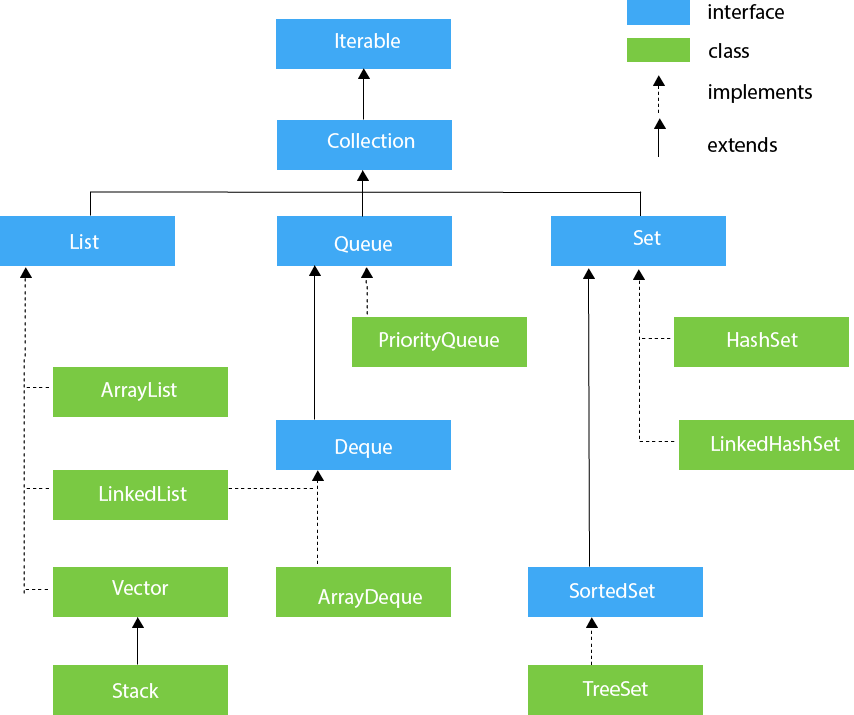
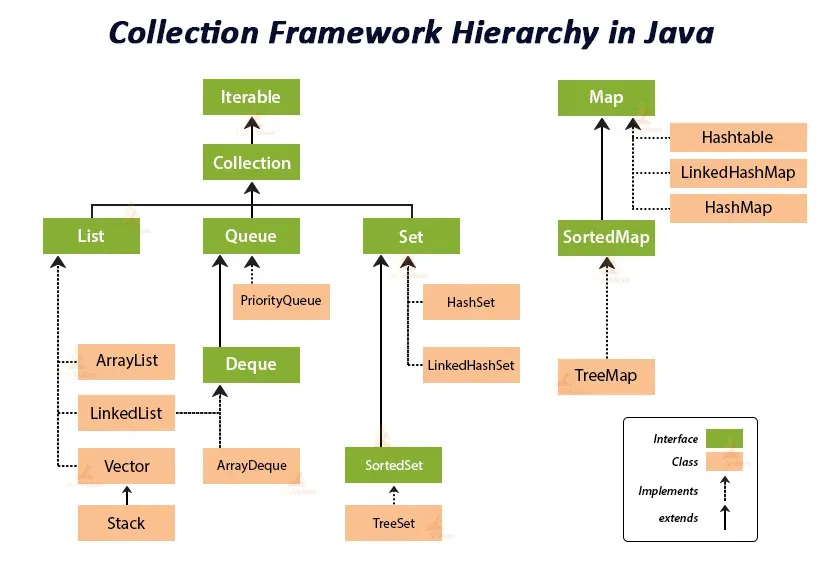
updated java collection hierarchy, java exception handling class hierarchy and types of exception in java flowchart diagrams and also added their sources in readme file

diff --git a/readme.md b/readme.md
@@ -26,6 +26,7 @@ This repository contains the following listed Java Practicals that are done usin
 ### Following are some important concepts of Java:
 - [Java Collection Hierarchy](#java-collection-hierarchy)
 - [Java Exception Handling Class Hierarchy](#java-exception-handling-class-hierarchy)
+- [Types of Exceptions in Java](#types-of-exceptions-in-java)
 
 ## Java Collection Hierarchy
 
@@ -43,7 +44,9 @@ The Java Collections Framework provides a well-designed set of interfaces and cl
 
 Here is a diagram showcasing the hierarchy of the Java Collection classes:
 
-![Java Collection Hierarchy](ProjectImages/java-collection-hierarchy.png)
+|                                                                      ![Java Collection Hierarchy](ProjectImages/java-collection-hierarcHy.png)                                                                       |
+|:--------------------------------------------------------------------------------------------------------------------------------------------------------------------------------------------------------------------:|
+| Image Source: [Medium Article on Mastering the Java Collections Framework Hierarchy](https://medium.com/@mbanaee61/mastering-the-java-collections-framework-hierarchy-with-java-code-and-junit-testing-ab2eb87746ed) |
 
 ## Java Exception Handling Class Hierarchy
 
@@ -59,7 +62,23 @@ Remember, it's always a good practice to handle exceptions in order to maintain 
 
 The following diagram shows the class hierarchy of the Java Exception classes:
 
-![Java Exception Handling Class Hierarchy](ProjectImages/java-exception-handling-class-hierarchy-diagram.jpg)
+|       ![Java Exception Handling Class Hierarchy](ProjectImages/java-exception-handling-class-hierarchy-diagram.png)       |
+|:-------------------------------------------------------------------------------------------------------------------------:|
+| Image Source: [Interview Noodle Article on Exception in Java](https://interviewnoodle.com/exception-in-java-89a0b41e0c45) |
+
+## Types of Exceptions in Java
+
+In Java, exceptions are divided into two main categories: checked and unchecked exceptions.
+
+- **Checked Exceptions**: These are the exceptions that are checked at compile time. If some code within a method throws a checked exception, then the method must either handle the exception or it must specify the exception using the `throws` keyword. Examples: `IOException`, `ClassNotFoundException`.
+
+- **Unchecked Exceptions**: These are the exceptions that are not checked at compiled time. In C++, all exceptions are unchecked, so it is not forced by the compiler to either handle or specify the exception. It is up to the programmers to be civilized, and specify or catch the exceptions. Examples: `ArithmeticException`, `NullPointerException`, `ArrayIndexOutOfBoundsException`.
+
+Here is a diagram showcasing the types of exceptions in Java:
+
+|                           ![Types of Exceptions in Java](ProjectImages/types-of-exception-in-java.png)                           |
+|:--------------------------------------------------------------------------------------------------------------------------------:|
+| Image Source: [Medium Article on Java Exception Handling](https://medium.com/@bhavyasri9177/java-exception-handling-3b751904f41) |
 
 ## Developed With
 
